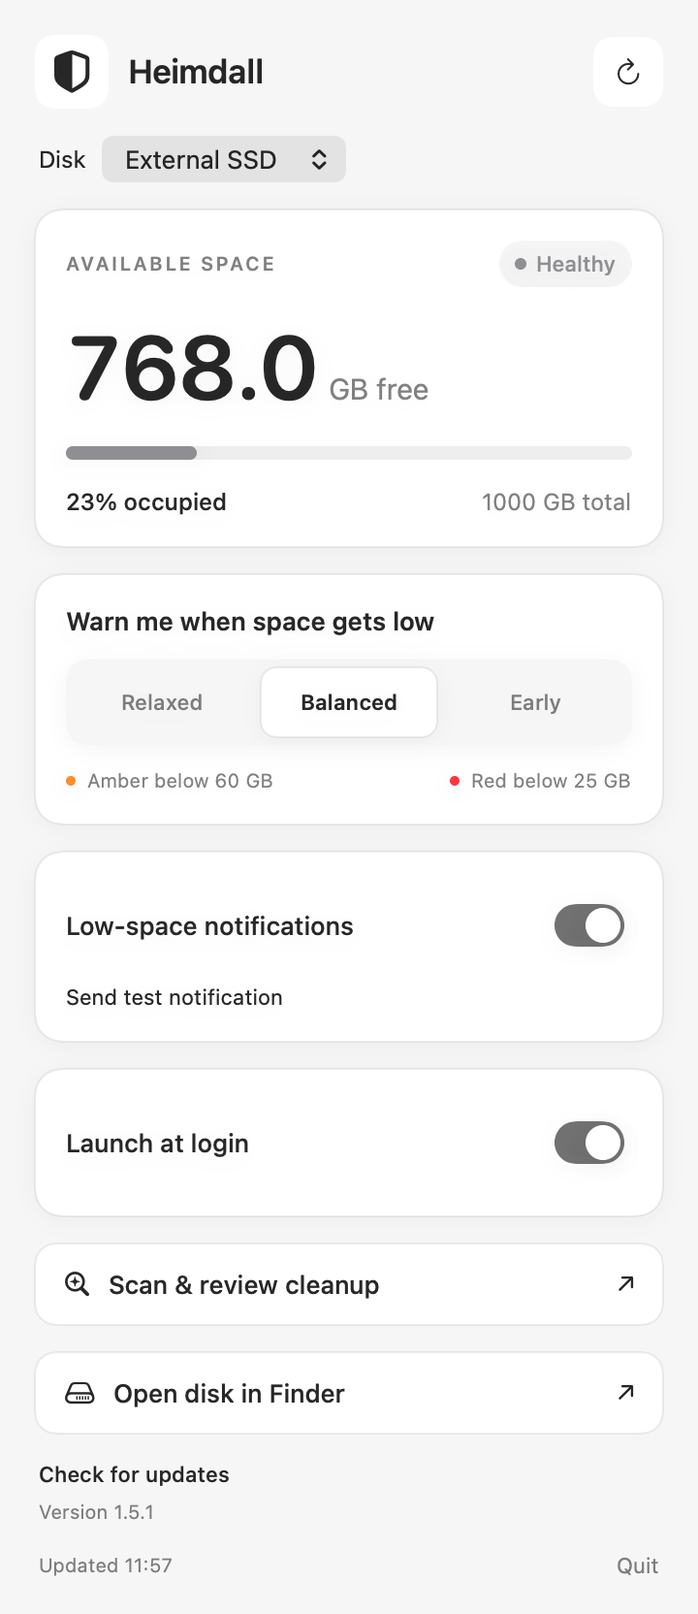
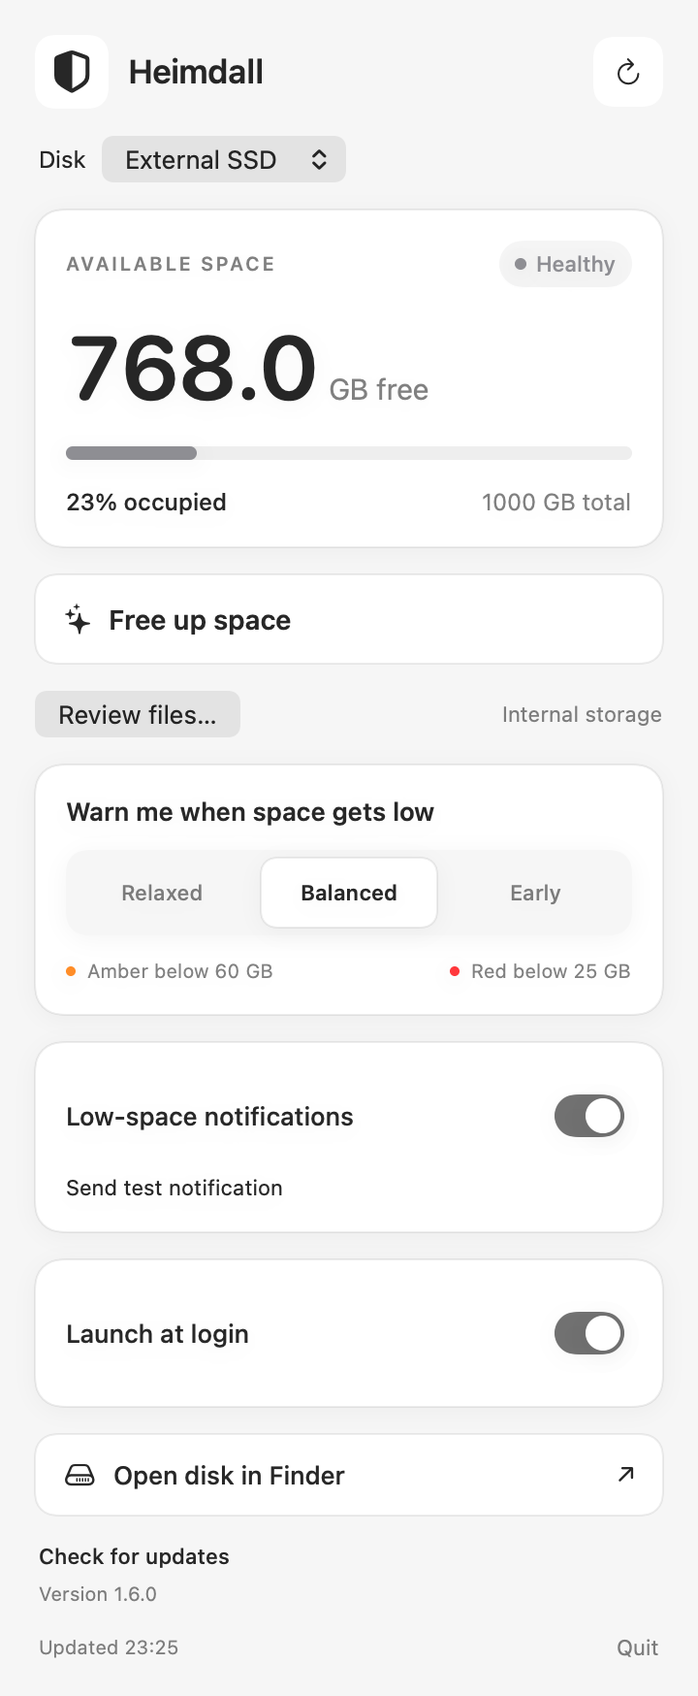
Make safe space cleanup a single automatic action

diff --git a/Sources/Cleanup.swift b/Sources/Cleanup.swift
@@ -1,14 +1,16 @@
 import Foundation
 import Darwin
 
-// Only these three explicit locations are eligible. No whole-disk or cache sweep.
+// Explicit cleanup locations only. Personal downloads always require review.
 enum CleanupRule: String, CaseIterable {
-    case installers, logs, derivedData
+    case installers, logs, derivedData, npmDownloads, homebrewDownloads
     var title: String {
         switch self {
         case .installers: return "Old installers"
         case .logs: return "Old user logs"
         case .derivedData: return "Inactive Xcode build data"
+        case .npmDownloads: return "Cached npm downloads"
+        case .homebrewDownloads: return "Cached Homebrew downloads"
         }
     }
     var reason: String {
@@ -16,6 +18,7 @@ enum CleanupRule: String, CaseIterable {
         case .installers: return "Installers older than 30 days."
         case .logs: return "Logs older than 30 days."
         case .derivedData: return "Build data older than 30 days. Xcode recreates it when needed."
+        case .npmDownloads, .homebrewDownloads: return "Cached downloads older than 30 days. Future installs may download them again."
         }
     }
     var rootPath: String {
@@ -23,6 +26,8 @@ enum CleanupRule: String, CaseIterable {
         case .installers: return "Downloads"
         case .logs: return "Library/Logs"
         case .derivedData: return "Library/Developer/Xcode/DerivedData"
+        case .npmDownloads: return ".npm/_cacache/content-v2"
+        case .homebrewDownloads: return "Library/Caches/Homebrew/downloads"
         }
     }
 }
@@ -85,6 +90,7 @@ struct CleanupEngine {
     var maximumEntries = 20_000
     var xcodeRunning: () -> Bool = { false }
     var cancelled: () -> Bool = { false }
+    var rules: [CleanupRule] = CleanupRule.allCases
     var cutoff: Date { now.addingTimeInterval(-Double(ageDays) * 86400) }
     private func root(_ rule: CleanupRule) -> URL { home.appendingPathComponent(rule.rootPath,isDirectory: true).standardizedFileURL }
     private func validateLocation(_ url: URL,_ rule: CleanupRule) throws {
@@ -93,7 +99,7 @@ struct CleanupEngine {
         guard item.path.hasPrefix(base.path + "/"),item.path != base.path else { throw CleanupFailure.outsideScope }
         // Resolving every ancestor prevents an approved-looking path from escaping via links.
         guard base.resolvingSymlinksInPath().path == base.path,item.resolvingSymlinksInPath().path == item.path else { throw CleanupFailure.outsideScope }
-        if rule != .logs && item.deletingLastPathComponent().path != base.path { throw CleanupFailure.outsideScope }
+        if ![CleanupRule.logs,.npmDownloads,.homebrewDownloads].contains(rule) && item.deletingLastPathComponent().path != base.path { throw CleanupFailure.outsideScope }
         if rule == .installers && !["dmg","pkg"].contains(item.pathExtension.lowercased()) { throw CleanupFailure.outsideScope }
         if rule == .logs {
             let suffix = item.pathExtension
@@ -130,7 +136,7 @@ struct CleanupEngine {
     }
     func scan() -> CleanupScan {
         var result = CleanupScan()
-        for rule in CleanupRule.allCases {
+        for rule in rules {
             if cancelled() { break }
             let base = root(rule)
             guard FileManager.default.fileExists(atPath: base.path) else { continue }
@@ -138,7 +144,7 @@ struct CleanupEngine {
             if rule == .derivedData && xcodeRunning() { result.notes.append("Xcode is running. Its build data was skipped."); continue }
             do {
                 let urls: [URL]
-                if rule == .logs {
+                if [CleanupRule.logs,.npmDownloads,.homebrewDownloads].contains(rule) {
                     var failed = false
                     guard let walk = FileManager.default.enumerator(at: base,includingPropertiesForKeys: [.isSymbolicLinkKey,.isDirectoryKey],options: [.skipsHiddenFiles],errorHandler: { _,_ in failed = true; return false }) else { throw CleanupFailure.unsupported }
                     var found: [URL] = []
@@ -177,5 +183,44 @@ struct CleanupEngine {
     func moveToTrash(_ item: CleanupCandidate,using trash: (URL) throws -> Void) throws {
         try revalidate(item)
         try trash(item.url)
+    }
+}
+
+struct AutomaticCleanupResult {
+    var removedBytes: Int64 = 0
+    var removedCount = 0
+    var skippedCount = 0
+    var busyCount = 0
+    var notes: [String] = []
+}
+
+struct AutomaticCleanup {
+    var engine: CleanupEngine
+    // Rechecked before each removal. Unknown process state means busy.
+    var buildersRunning: () -> Bool = { true }
+    var remove: (URL) throws -> Void
+    func run() -> AutomaticCleanupResult {
+        var result = AutomaticCleanupResult()
+        var scanner = engine
+        scanner.rules = [.logs,.derivedData,.npmDownloads,.homebrewDownloads]
+        let scan = scanner.scan()
+        result.notes = scan.notes
+        for item in scan.candidates {
+            if scanner.cancelled() { result.notes.append("Cleanup stopped early."); break }
+            if item.rule != .logs && buildersRunning() {
+                result.skippedCount += 1; result.busyCount += 1
+                continue
+            }
+            do {
+                // Installers and personal files can never enter the automatic removal path.
+                guard item.rule != .installers else { throw CleanupFailure.outsideScope }
+                try scanner.revalidate(item)
+                guard !scanner.cancelled() else { throw CleanupFailure.limit }
+                try remove(item.url)
+                result.removedCount += 1
+                result.removedBytes += item.bytes
+            } catch { result.skippedCount += 1 }
+        }
+        return result
     }
 }

diff --git a/Sources/main.swift b/Sources/main.swift
@@ -56,8 +56,9 @@ final class AppDelegate: NSObject, NSApplicationDelegate, UNUserNotificationCent
         model.testAlertAction = { [weak self] in self?.configureAlerts(true,test: true) }
         model.updateAction = { [weak self] in self?.checkUpdates() }
         model.openReleaseAction = { [weak self] in if let url = self?.model.releaseURL { NSWorkspace.shared.open(url) } }
+        model.freeSpaceAction = { [weak self] in self?.freeUpSpace() }
         model.cleanupAction = { [weak self] in self?.showCleanup() }
-        model.quitAction = { NSApplication.shared.terminate(nil) }
+        model.quitAction = { [weak self] in if self?.model.cleaning != true { NSApplication.shared.terminate(nil) } }
         let panelHeight = min(CGFloat(850),(NSScreen.main?.visibleFrame.height ?? 900) - 80)
         let hosting = NSHostingController(rootView: ScrollView { BeaconPanel(model: model) }.frame(width: 360,height: panelHeight))
         popover.contentViewController = hosting
@@ -188,6 +189,47 @@ final class AppDelegate: NSObject, NSApplicationDelegate, UNUserNotificationCent
             session.finishTasksAndInvalidate()
         }.resume()
     }
+    private func freeUpSpace() {
+        guard !model.cleaning,!cleanupModel.busy else { return }
+        cleanupCancellation?.cancel(); cleanupGeneration = UUID()
+        cleanupModel.scanning = false; cleanupModel.working = true
+        model.cleaning = true; model.cleanNote = ""
+        let home = FileManager.default.homeDirectoryForCurrentUser.resolvingSymlinksInPath()
+        let before = try? DiskReading.read(path: home.path).free
+        DispatchQueue.global(qos: .utility).async { [weak self] in
+            let deadline = Date().addingTimeInterval(120)
+            func buildersRunning() -> Bool {
+                let command = ToolCommand(executable: URL(fileURLWithPath: "/bin/ps"),arguments: ["-axo","comm="],environment: [:])
+                guard let output = try? ToolRunner(timeout: 3).run(command),output.status == 0,!output.truncated else { return true }
+                let active: Set<String> = ["Xcode","xcodebuild","swift","swift-build","swift-package","swift-frontend","clang","clang++","ninja","make","cmake","node","npm","brew","ruby","Unity","Unity Hub","java","gradle"]
+                return output.text.split(separator: "\n").contains { active.contains(URL(fileURLWithPath: String($0).trimmingCharacters(in: .whitespaces)).lastPathComponent) }
+            }
+            var engine = CleanupEngine(home: home)
+            engine.cancelled = { Date() > deadline }
+            engine.xcodeRunning = buildersRunning
+            let result = AutomaticCleanup(engine: engine,buildersRunning: buildersRunning,remove: { try FileManager.default.removeItem(at: $0) }).run()
+            let after = try? DiskReading.read(path: home.path).free
+            DispatchQueue.main.async {
+                guard let self else { return }
+                self.model.cleaning = false; self.cleanupModel.working = false
+                let bytes = ByteCountFormatter.string(fromByteCount: result.removedBytes,countStyle: .file)
+                if result.removedCount > 0 {
+                    if let before,let after,after > before {
+                        self.model.cleanNote = "\(ByteCountFormatter.string(fromByteCount: after - before,countStyle: .file)) more available."
+                    } else { self.model.cleanNote = "Removed \(bytes) of cached files and old logs." }
+                } else if result.busyCount > 0 {
+                    self.model.cleanNote = "Close your development tools and try again."
+                } else if result.skippedCount > 0 || !result.notes.isEmpty {
+                    self.model.cleanNote = "Some locations couldn’t be cleaned. Review files for more options."
+                } else { self.model.cleanNote = "Nothing more to clean automatically." }
+                if result.removedCount > 0 && (result.skippedCount > 0 || !result.notes.isEmpty) { self.model.cleanNote += " Some items were skipped." }
+                self.cleanupModel.status = self.model.cleanNote
+                // Invalidate review snapshots affected by this run.
+                self.cleanupModel.candidates = []; self.cleanupModel.opportunities = []; self.cleanupModel.selection = []; self.cleanupModel.scanned = false
+                self.refresh()
+            }
+        }
+    }
     private func syncCleanupSettings() {
         cleanupModel.login = FileManager.default.fileExists(atPath: loginURL.path)
         cleanupModel.alerts = model.alerts
@@ -218,6 +260,7 @@ final class AppDelegate: NSObject, NSApplicationDelegate, UNUserNotificationCent
         }
         NSApp.activate(ignoringOtherApps: true)
         cleanupWindow?.makeKeyAndOrderFront(nil)
+        if !cleanupModel.scanned && !cleanupModel.busy { scanCleanup() }
     }
     func windowShouldClose(_ sender: NSWindow) -> Bool { !cleanupModel.working }
     func windowWillClose(_ notification: Notification) {

diff --git a/Tests/main.swift b/Tests/main.swift
@@ -270,3 +270,46 @@ let freshNested = personalScanner.scan().items.first { $0.url.path == nestedDocu
 try ReviewedFile.moveToTrash(freshNested,roots: documentRoots) { try FileManager.default.moveItem(at: $0,to: fakeTrash.appendingPathComponent("reviewed-film.mov")) }
 expect(FileManager.default.fileExists(atPath: fakeTrash.appendingPathComponent("reviewed-film.mov").path),"Reviewed removal preserves a file in injected fixture Trash")
 print("Passed \(checks) total checks, including ordinary-user Downloads and Documents review. No real Trash was touched.")
+
+// One-click cleanup is tested only on a disposable home, never the user's files.
+let autoHome = fixture.appendingPathComponent("AutoHome")
+try FileManager.default.createDirectory(at: autoHome,withIntermediateDirectories: true)
+func autoFile(_ path: String,recent: Bool = false) throws -> URL {
+    let url = autoHome.appendingPathComponent(path)
+    try FileManager.default.createDirectory(at: url.deletingLastPathComponent(),withIntermediateDirectories: true)
+    try Data(repeating: 33,count: 2048).write(to: url)
+    if recent { try FileManager.default.setAttributes([.modificationDate: fixtureNow],ofItemAtPath: url.path) }
+    return url
+}
+let autoLog = try autoFile("Library/Logs/App/old.log")
+let autoBuild = try autoFile("Library/Developer/Xcode/DerivedData/OldProject/Build/output")
+let autoNpm = try autoFile(".npm/_cacache/content-v2/sha512/aa/bb/old-package")
+let autoBrew = try autoFile("Library/Caches/Homebrew/downloads/old-package.tar.gz")
+let autoRecent = try autoFile(".npm/_cacache/content-v2/sha512/aa/bb/new-package",recent: true)
+let autoInstaller = try autoFile("Downloads/important.dmg")
+let autoDocument = try autoFile("Documents/important.pdf")
+let autoHistory = try autoFile("Library/Caches/JetBrains/IDE/LocalHistory/entry")
+let autoTrash = try autoFile(".Trash/keep.txt")
+let autoIndex = try autoFile(".npm/_cacache/index-v5/keep-index")
+let autoLinked = autoHome.appendingPathComponent("Library/Caches/Homebrew/downloads/linked")
+try FileManager.default.createSymbolicLink(at: autoLinked,withDestinationURL: autoDocument)
+var autoEngine = CleanupEngine(home: autoHome,now: fixtureNow,minimumBytes: 1)
+let busyAuto = AutomaticCleanup(engine: autoEngine,buildersRunning: { true },remove: { try FileManager.default.removeItem(at: $0) }).run()
+expect(busyAuto.removedCount == 1 && busyAuto.busyCount == 3,"Automatic cleanup removes old logs but skips developer files when builders run")
+expect(!FileManager.default.fileExists(atPath: autoLog.path) && FileManager.default.fileExists(atPath: autoBuild.path),"Busy build output is preserved while logs are removed permanently")
+let freeAuto = AutomaticCleanup(engine: autoEngine,buildersRunning: { false },remove: { try FileManager.default.removeItem(at: $0) }).run()
+expect(freeAuto.removedCount == 3 && freeAuto.removedBytes == 6144,"One-click cleanup removes eligible cache contents and inactive build output")
+for file in [autoRecent,autoInstaller,autoDocument,autoHistory,autoTrash,autoIndex] {
+    expect(FileManager.default.fileExists(atPath: file.path),"Automatic cleanup preserves recent, personal, history, Trash and cache-index files")
+}
+expect(FileManager.default.fileExists(atPath: autoLinked.path),"Automatic cleanup preserves symlinks and their targets")
+expect(AutomaticCleanup(engine: autoEngine,buildersRunning: { false },remove: { _ in fatalError("Nothing should be removed") }).run().removedCount == 0,"Repeated cleanup with no eligible files is a no-op")
+let autoChanged = try autoFile("Library/Caches/Homebrew/downloads/changed")
+let changedAuto = AutomaticCleanup(engine: autoEngine,buildersRunning: {
+    try? Data(repeating: 99,count: 4096).write(to: autoChanged)
+    return false
+},remove: { _ in fatalError("Changed item must never be removed") }).run()
+expect(changedAuto.removedCount == 0 && changedAuto.skippedCount == 1,"Revalidation prevents automatic deletion of a cache file changed after scan")
+autoEngine.cancelled = { true }
+expect(AutomaticCleanup(engine: autoEngine,buildersRunning: { false },remove: { _ in fatalError("Cancelled cleanup must not remove files") }).run().removedCount == 0,"Automatic cleanup honors cancellation")
+print("Passed \(checks) total checks including one-click cleanup, busy tools, personal-data exclusion, stale snapshots and repeat runs.")

diff --git a/Sources/Panel.swift b/Sources/Panel.swift
@@ -15,7 +15,7 @@ final class BeaconModel: ObservableObject {
     @Published var alerts = false
     @Published var alertNote = ""
     @Published var checkingUpdate = false
-    @Published var updateNote = "Version 1.5.1"
+    @Published var updateNote = "Version 1.6.0"
     @Published var releaseURL: URL?
     var selectAction: (String) -> Void = { _ in }
     var alertAction: (Bool) -> Void = { _ in }
@@ -25,6 +25,9 @@ final class BeaconModel: ObservableObject {
     var refreshAction: () -> Void = {}
     var presetAction: (Int,Int) -> Void = { _,_ in }
     var loginAction: () -> Void = {}
+    @Published var cleaning = false
+    @Published var cleanNote = ""
+    var freeSpaceAction: () -> Void = {}
     var cleanupAction: () -> Void = {}
     var storageAction: () -> Void = {}
     var quitAction: () -> Void = {}
@@ -124,6 +127,25 @@ struct BeaconPanel: View {
                     }
                 }
             }
+            Button(action: model.freeSpaceAction) {
+                HStack {
+                    if model.cleaning { ProgressView().controlSize(.small) }
+                    else { Image(systemName: "sparkles") }
+                    Text(model.cleaning ? "Freeing up space…" : "Free up space")
+                    Spacer()
+                }.font(.system(size: 14,weight: .semibold)).padding(.horizontal,14).frame(height: 46)
+                    .background(surface,in: RoundedRectangle(cornerRadius: 11))
+                    .overlay(RoundedRectangle(cornerRadius: 11).stroke(border,lineWidth: 1))
+            }.buttonStyle(FluidPress()).disabled(model.cleaning)
+                .help("Remove old logs, inactive build data and cached package downloads from this Mac.")
+            if !model.cleanNote.isEmpty {
+                Text(model.cleanNote).font(.system(size: 12)).foregroundStyle(.secondary).fixedSize(horizontal: false,vertical: true)
+            }
+            HStack {
+                Button("Review files…",action: model.cleanupAction).disabled(model.cleaning)
+                Spacer()
+                Text("Internal storage").foregroundStyle(.secondary)
+            }.font(.system(size: 11))
             panel {
                 VStack(alignment: .leading,spacing: 12) {
                     Text("Warn me when space gets low").font(.system(size: 13,weight: .semibold))
@@ -156,15 +178,8 @@ struct BeaconPanel: View {
                     }
                 }.toggleStyle(FluidToggle())
             }
-            if !model.disconnected {
-                Button(action: model.cleanupAction) {
-                    HStack { Image(systemName: "sparkle.magnifyingglass"); Text("Scan & review cleanup"); Spacer(); Image(systemName: "arrow.up.right").font(.system(size: 10,weight: .semibold)) }
-                        .font(.system(size: 13,weight: .medium)).padding(.horizontal,14).frame(height: 42)
-                        .background(surface,in: RoundedRectangle(cornerRadius: 11)).overlay(RoundedRectangle(cornerRadius: 11).stroke(border,lineWidth: 1))
-                }.buttonStyle(FluidPress()).help("Review cleanup, developer tools, large files and applications across accessible locations.")
-            }
             Button(action: model.storageAction) {
-                HStack { Image(systemName: "internaldrive"); Text(model.selectedID == "internal" ? "Review & free up space" : "Open disk in Finder"); Spacer(); Image(systemName: "arrow.up.right").font(.system(size: 10,weight: .semibold)) }
+                HStack { Image(systemName: "internaldrive"); Text(model.selectedID == "internal" ? "macOS Storage settings" : "Open disk in Finder"); Spacer(); Image(systemName: "arrow.up.right").font(.system(size: 10,weight: .semibold)) }
                     .font(.system(size: 13,weight: .medium)).padding(.horizontal,14).frame(height: 42)
                     .background(surface,in: RoundedRectangle(cornerRadius: 11)).overlay(RoundedRectangle(cornerRadius: 11).stroke(border,lineWidth: 1))
             }.buttonStyle(FluidPress()).disabled(model.disconnected).help(model.selectedID == "internal" ? "Open Apple’s cleanup recommendations and large-file review in Storage settings" : "Browse this disk in Finder")

diff --git a/README.md b/README.md
@@ -8,7 +8,7 @@ The menu bar uses text only, without a redundant usage icon. Normal readings sta
 
 Requires **macOS 13 or later**. The universal download supports **Apple Silicon and Intel** Macs.
 
-1. Download **Heimdall-1.5.1-universal.dmg** from the [latest release](https://github.com/theedward/heimdall/releases/latest).
+1. Download **Heimdall-1.6.0-universal.dmg** from the [latest release](https://github.com/theedward/heimdall/releases/latest).
 2. Open the disk image and **drag Heimdall into Applications**.
 3. Eject the disk image, then open **Heimdall** from Applications.
 4. Allow notifications when macOS asks if you want low-space banners. Click the menu bar readout to select a disk, adjust thresholds, or enable **Launch at login**.
@@ -17,7 +17,15 @@ Requires **macOS 13 or later**. The universal download supports **Apple Silicon 
 
 *Installer layout preview, using the packaged artwork and icons.*
 
-### First launch
+### Free up space
+
+Click **Free up space** in the menu bar panel. Heimdall automatically finds and permanently removes eligible old logs, inactive Xcode DerivedData, npm cached download contents (`~/.npm/_cacache/content-v2`) and Homebrew cached downloads (`~/Library/Caches/Homebrew/downloads`). No folder setup, selection or additional confirmation is required. Every file must have been created and modified over 30 days ago. Later builds or installs may recreate or download these files.
+
+Personal Downloads, Documents, applications, games, local history and Trash are excluded. Development caches and build data are skipped while detected build/install tools are running; unreadable process state also skips them. Links, changed files, protected entries and source-control-containing build folders are skipped. Cleanup runs only when clicked, on the current user’s home storage, regardless of the disk selected for display; it is never scheduled in the background. Custom review locations do not expand automatic cleanup scope.
+
+The result reports the change in available space, or the amount of files removed when filesystem space has not yet changed. Other activity and APFS snapshots can affect the available-space measurement. If nothing eligible exists, the app says so. **Review files…** remains available for personal files and scans its default locations on opening.
+
+## First launch
 
 This release is ad-hoc signed, without an Apple Developer ID certificate or notarization. macOS may block the first launch. After attempting to open the app, use **System Settings → Privacy & Security → Open Anyway** if macOS offers it, then confirm opening. Only approve a download you trust. You can also build from the MIT-licensed source below.
 
@@ -49,17 +57,18 @@ The [design notes](docs/DESIGN.md) describe the fluid functionalism adaptation a
 
 ## Cleanup review
 
-Click **Scan & review cleanup**, then **Scan**. The window opens on Downloads and also offers Documents, Cleanup, Developer tools, Applications, and Large folders. **Add folder** includes a custom location on any accessible volume; remove it to change the next scan. No external drive or particular folder layout is required. An empty category is a valid result, including on Macs without development tools.
+Click **Review files…**. The review scans automatically when first opened. The window opens on Downloads and also offers Documents, Cleanup, Developer tools, Applications, and Large folders. **Add folder** includes a custom location on any accessible volume; remove it to change the next scan. No external drive or particular folder layout is required. An empty category is a valid result, including on Macs without development tools.
 
-The Cleanup category checks three explicit locations:
+The optional Cleanup review checks these explicit locations:
 
 - `~/Downloads`: top-level regular `.dmg` and `.pkg` installers.
 - `~/Library/Logs`: regular `.log` files and numbered rotations.
 - `~/Library/Developer/Xcode/DerivedData`: inactive build folders, only while Xcode is closed.
+- `~/.npm/_cacache/content-v2` and `~/Library/Caches/Homebrew/downloads`: cached package downloads.
 
 Candidates must total at least 1 MB and have no creation or modification within the last 30 days. Directories require every descendant to meet the age rule. Linked, protected, unreadable, oversized and source-control-containing build folders are skipped. Scans stop after 60 seconds or their entry limits and report incomplete results. Games, source projects, documents, archives, app data and general caches are outside these Trash rules; the other categories can identify them for manual review. Age alone does not mean you no longer need a file.
 
-Every item starts **unchecked**. Review its reason, size and path; **Show in Finder** opens its location. Select items, click **Review & move to Trash**, and confirm the list. Before each move, Heimdall rechecks location, file identity, metadata, contents of build folders, and whether Xcode is running. Changed items are skipped. Errors are reported per item. These removal actions only move files to Trash; permanent emptying is a separate action.
+In the optional review, every item starts **unchecked**. Review its reason, size and path; **Show in Finder** opens its location. Select items, click **Review & move to Trash**, and confirm the list. Before each move, Heimdall rechecks location, file identity, metadata, contents of build folders, and whether Xcode is running. Changed items are skipped. Errors are reported per item. These removal actions only move files to Trash; permanent emptying is a separate action.
 
 **Moving to Trash does not free disk space.** Use **Open Trash** to review, then **Empty Trash…** when ready. Heimdall confirms permanent deletion before asking Finder to empty all Trash on connected disks, including items deleted outside Heimdall. Cancel is the default. Finder manages protected/in-use files and may ask for further confirmation. macOS may request Automation permission to control Finder; denial is reported with no fallback deletion. Trash is never emptied automatically, during a scan, or after moving files. Logical sizes are estimates; APFS shared storage and compression can change the actual space reclaimed. Finder can restore trashed items while they remain in Trash.
 
@@ -85,7 +94,7 @@ Cache discovery includes typical locations and custom npm/Homebrew cache locatio
 - [Gradle retention](https://docs.gradle.org/current/userguide/directory_layout.html) and [JetBrains leftover directories](https://www.jetbrains.com/help/idea/directories-used-by-the-ide-to-store-settings-caches-plugins-and-logs.html) use their documented controls; IDE Local History is not swept away by Heimdall.
 - Editor/runtime removal is reviewed in [Unity Hub](https://docs.unity.com/en-us/hub/add-editor) or [Xcode settings](https://developer.apple.com/documentation/xcode/downloading-and-installing-additional-xcode-components). Heimdall opens the detected manager, or its guide when unavailable.
 
-Tool cleanup is permanent and may require dependency downloads later. The confirmation shows its exact scope and command; close active builds/installations before approving. The scan never executes cleanup commands. Tool timeouts and failures are reported; a failed cleanup may have made partial changes, so rescan before retrying.
+Tool cleanup is permanent and may require dependency downloads later. The confirmation shows its scope; close active builds/installations before approving. The scan never executes cleanup commands. Tool timeouts and failures are reported; a failed cleanup may have made partial changes, so rescan before retrying.
 
 ### Relocation without a drive assumption
 

diff --git a/docs/DESIGN.md b/docs/DESIGN.md
@@ -29,3 +29,5 @@ Storage opportunities use six SwiftUI category buttons with native keyboard focu
 Personal-file review starts on Downloads, with Documents alongside it. A two-row category grid keeps labels legible. Plain-language file explanations make archive ownership and uncertain last-use evidence clear. Each file offers move, reviewed removal and Finder reveal; removal defaults to Keep file. A separate neutral Trash card offers Open Trash and Empty Trash actions; permanent scope appears in the confirmation. The destructive confirmation defaults to Cancel and delegates to Finder.
 
 Keep UI copy focused on names, sizes, useful file context and action results. Omit repeated workflow instructions, scan implementation notes, raw commands and decorative guidance. Settings are collapsed by default. Keep irreversible consequences and storage limitations in the confirmation where they inform the decision.
+
+Free up space is the primary action immediately below disk usage. One click discovers and removes only eligible recreatable data, with an inline progress and result. No setup, scan screen or confirmation is inserted into this action. Review files is secondary and auto-scans on opening. The selected disk controls the readout; cleanup is explicitly labeled Internal storage and targets the user's home.
